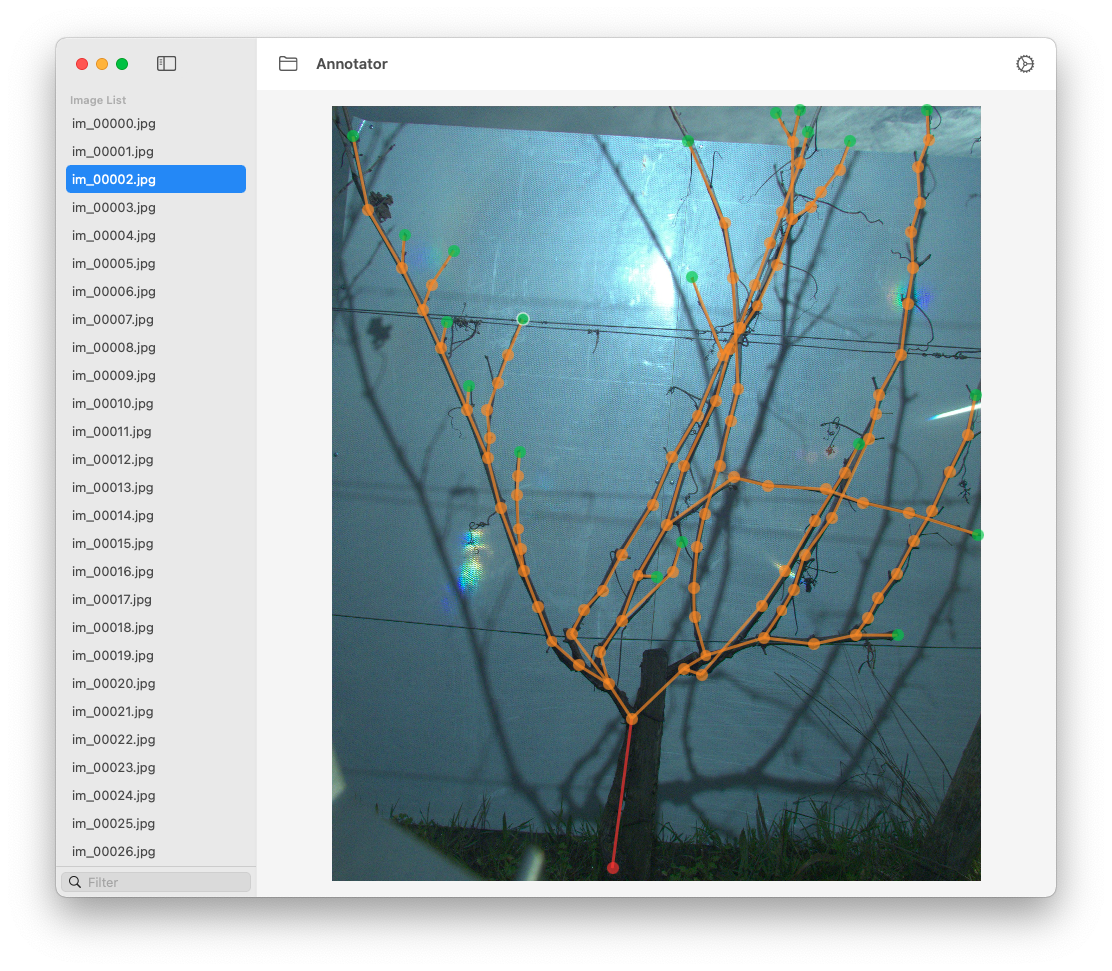
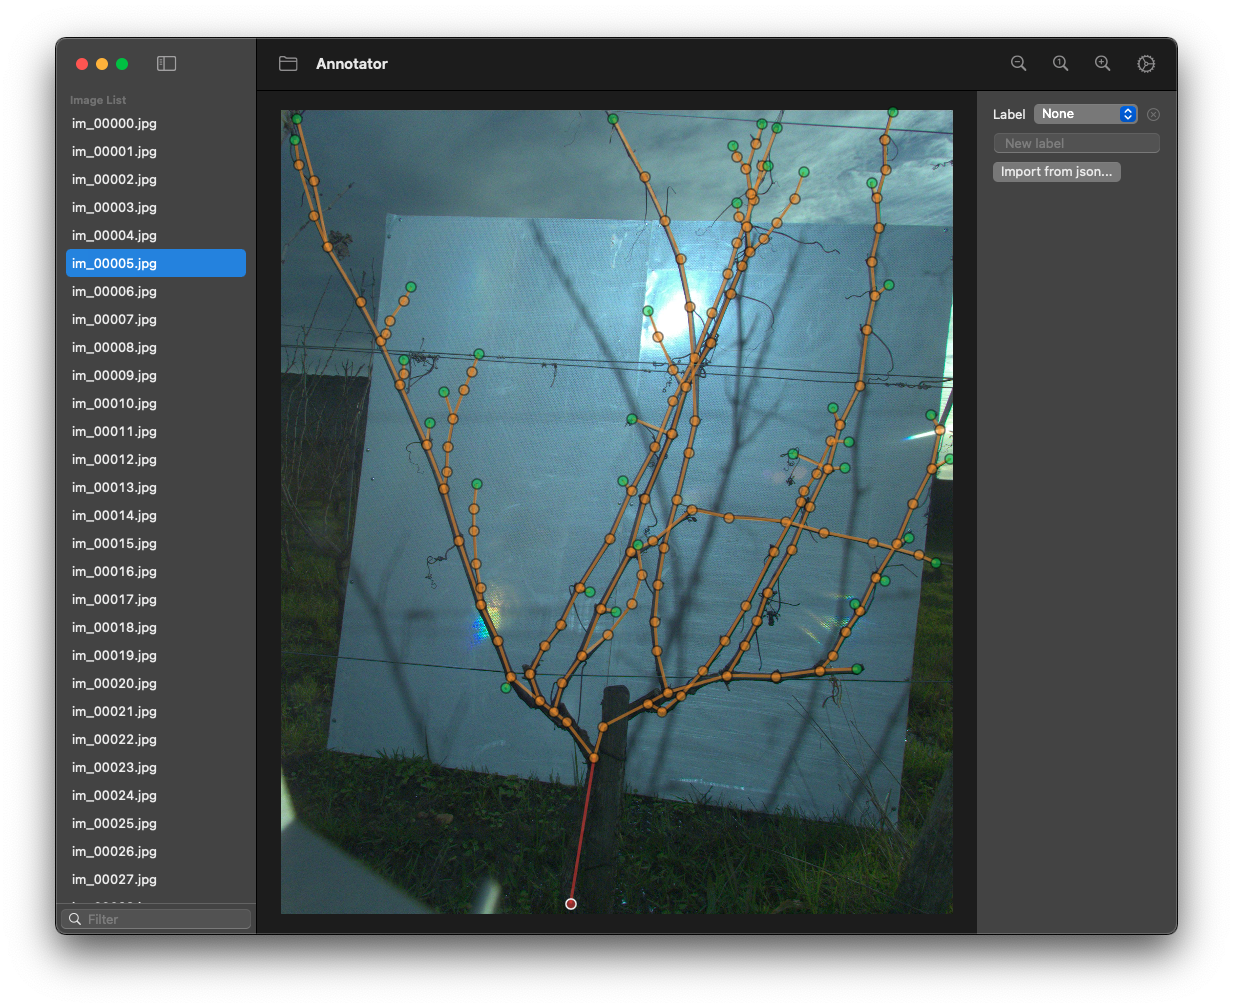
Added inspector view for adding a label

diff --git a/Annotator/AnnotationView/AnnotationTreeView.swift b/Annotator/AnnotationView/AnnotationTreeView.swift
@@ -9,7 +9,7 @@ import SwiftUI
 
 struct AnnotationTreeView: View {
     @EnvironmentObject private var annotationController: AnnotationController
-    
+    @EnvironmentObject private var labelsController: LabelsController
     @AppStorage("keypointRadius") private var radius: Double = 5
     @AppStorage("keypointOpacity") private var opacity: Double = 1/2
     
@@ -34,12 +34,14 @@ struct AnnotationTreeView: View {
     func keypointView(node: KeypointNode) -> some View {
         ZStack {
             Circle()
-                .fill(colorFor(node: node).opacity(opacity))
+                .fill(colorForNode(node).opacity(opacity))
+            
+            Circle()
+                .stroke(Color.black.opacity(opacity), lineWidth: 1.5)
             
             if annotationController.selection === node {
                 Circle()
-                    .stroke(lineWidth: 1.5)
-                    .fill(Color.white.opacity(opacity))
+                    .stroke(Color.white, lineWidth: 1.5)
             }
         }
         .frame(width: CGFloat(radius) * 2, height: CGFloat(radius) * 2)
@@ -47,12 +49,7 @@ struct AnnotationTreeView: View {
             x: CGFloat(node.value.x) / imageSize.width * imageViewSize.width - CGFloat(radius),
             y: CGFloat(node.value.y) / imageSize.height * imageViewSize.height - CGFloat(radius))
         .gesture(tapOrDragGesture(node: node))
-        .contextMenu {
-            Button("Remove") {
-                annotationController.remove(node: node)
-                annotationController.save(imageUrl, imageSize: imageSize)
-            }
-        }
+        .contextMenu { menuItems(node: node) }
     }
     
     func connectionView(start: KeypointNode, stop: KeypointNode) -> some View {
@@ -75,8 +72,10 @@ struct AnnotationTreeView: View {
         }
     }
     
-    func colorFor(node: KeypointNode) -> Color {
-        if node.isRoot {
+    func colorForNode(_ node: KeypointNode) -> Color {
+        if node.value.name != nil {
+            return .blue
+        } else if node.isRoot {
             return .red
         } else if node.isLeaf {
             return .green
@@ -86,7 +85,35 @@ struct AnnotationTreeView: View {
     }
     
     func colorForConnection(from start: KeypointNode, to stop: KeypointNode) -> Color {
-        colorFor(node: start)
+        colorForNode(start)
+    }
+    
+    func nameBinding(for node: KeypointNode) -> Binding<String?> {
+        Binding {
+            node.value.name
+        } set: {
+            annotationController.objectWillChange.send()
+            node.value.name = $0
+            annotationController.save(imageUrl, imageSize: imageSize)
+        }
+    }
+    
+    @ViewBuilder
+    func menuItems(node: KeypointNode) -> some View {
+        Button(action: {
+            annotationController.remove(node: node)
+            annotationController.save(imageUrl, imageSize: imageSize)
+        }) {
+            Label("Remove", systemSymbol: .trash)
+        }
+        
+        Picker(selection: nameBinding(for: node), label: Label("Label", systemSymbol: .pencil)) {
+            Text("None").tag(String?.none)
+
+            ForEach(labelsController.labels, id: \.self) { label in
+                Text(label).tag(String?.some(label))
+            }
+        }
     }
     
     func tapOrDragGesture(node: KeypointNode) -> some Gesture {

diff --git a/Annotator/AnnotationView/AnnotationView.swift b/Annotator/AnnotationView/AnnotationView.swift
@@ -10,6 +10,7 @@ import RealModule
 
 struct AnnotationView: View {
     @EnvironmentObject private var imageStoreController: ImageStoreController
+    @EnvironmentObject private var labelsController: LabelsController
     @EnvironmentObject private var imagePreference: ImageScalePreference
     @StateObject private var annotationController = AnnotationController()
     @State private var imageViewSize: CGSize?
@@ -24,8 +25,9 @@ struct AnnotationView: View {
                             .overlay(annotationView)
                             .readSize(onChange: { imageViewSize = $0 })
                             .onClickGesture(count: 2, perform: addNewNode)
-                            .frame(width: geo.size.width * imagePreference.imageScale, height: geo.size.height * imagePreference.imageScale)
-            
+                            .frame(
+                                width: geo.size.width * imagePreference.imageScale,
+                                height: geo.size.height * imagePreference.imageScale)
                     }
                 }
             } else {
@@ -34,13 +36,7 @@ struct AnnotationView: View {
         }
         .padding()
         .disabled(imageSize == nil || imageViewSize == nil)
-        .onReceive(imageStoreController.$selection) { selection in
-            if let selection = selection {
-                annotationController.loadAnnotation(forImageUrl: selection)
-            } else {
-                annotationController.reset()
-            }
-        }
+        .onReceive(imageStoreController.$selection, perform: loadAnnotation(url:))
         .environmentObject(annotationController)
     }
     
@@ -61,13 +57,21 @@ struct AnnotationView: View {
         }
         
         let keypoint = Keypoint(
-            name: "",
+            name: labelsController.selection,
             x: Double(location.x / imageViewSize.width * imageSize.width),
             y: Double(location.y / imageViewSize.height * imageSize.height)
         )
          
         annotationController.add(keypoint: keypoint, imageUrl: imageUrl, imageSize: imageSize)
         annotationController.save(imageUrl, imageSize: imageSize)
+    }
+    
+    func loadAnnotation(url: URL?) {
+        if let url = url {
+            annotationController.loadAnnotation(forImageUrl: url)
+        } else {
+            annotationController.reset()
+        }
     }
 }
 

diff --git a/Annotator/AnnotationView/InspectorView.swift b/Annotator/AnnotationView/InspectorView.swift
@@ -1,0 +1,55 @@
+//
+//  InspectorView.swift
+//  Annotator
+//
+//  Created by Louis Lac on 12/03/2021.
+//
+
+import SwiftUI
+
+struct InspectorView: View {
+    @EnvironmentObject private var labelsController: LabelsController
+    @State private var newLabel: String = ""
+    
+    var body: some View {
+        List {
+            HStack {
+                Picker("Label", selection: $labelsController.selection) {
+                    Text("None").tag(String?.none)
+
+                    ForEach(labelsController.labels, id: \.self) { label in
+                        Text(label).tag(String?.some(label))
+                    }
+                }
+                
+                Button(action: labelsController.removeSelectedLabel) {
+                    Image(systemSymbol: .xmarkCircle)
+                }
+                .disabled(labelsController.isDisabled)
+                .buttonStyle(BorderlessButtonStyle())
+            }
+            
+            TextField("New label", text: $newLabel, onCommit: appendLabel)
+                .disableAutocorrection(true)
+                .textFieldStyle(RoundedBorderTextFieldStyle())
+            
+            Button(action: labelsController.importLabelsFromJson) {
+                Text("Import from json...")
+            }
+        }
+        .frame(width: 200)
+        .listStyle(SidebarListStyle())
+        
+    }
+    
+    func appendLabel() {
+        labelsController.addLabel(newLabel)
+        newLabel = ""
+    }
+}
+
+struct InspectorView_Previews: PreviewProvider {
+    static var previews: some View {
+        InspectorView()
+    }
+}

diff --git a/Annotator/Controllers/LabelsController.swift b/Annotator/Controllers/LabelsController.swift
@@ -1,0 +1,52 @@
+//
+//  LabelsController.swift
+//  Annotator
+//
+//  Created by Louis Lac on 14/03/2021.
+//
+
+import Foundation
+import SwiftUI
+
+final class LabelsController: ObservableObject {
+    @Published private(set) var labels: [String] = []
+    @Published var selection: String?
+    
+    func removeSelectedLabel() {
+        guard let label = selection, let index = labels.firstIndex(of: label) else { return }
+        labels.remove(at: index)
+        let indexBefore = labels.index(before: index)
+        if indexBefore < 0 {
+            self.selection = nil
+        } else {
+            self.selection = labels[indexBefore]
+        }
+    }
+    
+    func addLabel(_ label: String) {
+        guard !label.isEmpty else { return }
+        labels.append(label)
+        selection = label
+    }
+    
+    func importLabelsFromJson() {
+        let panel = NSOpenPanel()
+        panel.canChooseFiles = true
+        panel.canChooseDirectories = false
+        panel.allowsMultipleSelection = false
+        panel.canHide = true
+        panel.allowedContentTypes = [.json]
+        
+        guard panel.runModal() == .OK else { return }
+        guard let fileURL = panel.url else { return }
+        guard let data = try? Data(contentsOf: fileURL) else { return }
+        guard let labels = try? JSONDecoder().decode([String].self, from: data) else { return }
+        
+        self.labels = labels
+        self.selection = self.labels.first
+    }
+    
+    var isDisabled: Bool {
+        selection == nil || labels.isEmpty
+    }
+}

diff --git a/Annotator/MainView.swift b/Annotator/MainView.swift
@@ -11,18 +11,25 @@ import SFSafeSymbols
 struct MainView: View {
     @StateObject private var imageStore = ImageStoreController()
     @StateObject private var imagePreference = ImageScalePreference()
+    @StateObject private var labelsController = LabelsController()
     @State private var isPresented: Bool = false
     
     var body: some View {
         NavigationView {
             SidebarView()
-            AnnotationView()
-                .toolbar(content: toolbarItems)
+            HStack(spacing: 0) {
+                Spacer()
+                AnnotationView()
+                    .toolbar(content: toolbarItems)
+                Spacer()
+                InspectorView()
+            }
         }
         .frame(minWidth: 1000, minHeight: 600)
         .sheet(isPresented: $isPresented, content: SettingsView.init)
         .environmentObject(imageStore)
         .environmentObject(imagePreference)
+        .environmentObject(labelsController)
     }
     
     func toolbarItems() -> some ToolbarContent {

diff --git a/Annotator/Models/Tree Annotation/AnnotationTree.swift b/Annotator/Models/Tree Annotation/AnnotationTree.swift
@@ -16,19 +16,19 @@ struct AnnotationTree {
     var imageSize: Size<Double>?
 }
 
-extension AnnotationTree {
-    mutating func resolveNodeNames() {
-        tree.traverse { node in
-            if node === tree.root {
-                node.value.name = "root"
-            } else if node.children.isEmpty {
-                node.value.name = "leaf"
-            } else {
-                node.value.name = "part"
-            }
-        }
-    }
-}
+//extension AnnotationTree {
+//    mutating func resolveNodeNames() {
+//        tree.traverse { node in
+//            if node === tree.root {
+//                node.value.name = "root"
+//            } else if node.children.isEmpty {
+//                node.value.name = "leaf"
+//            } else {
+//                node.value.name = "part"
+//            }
+//        }
+//    }
+//}
 
 //extension AnnotationTree: Equatable, Hashable { }
 

diff --git a/Annotator/Extensions/Array+RawRepresentable.swift b/Annotator/Extensions/Array+RawRepresentable.swift
@@ -1,0 +1,28 @@
+//
+//  Array+RawRepresentable.swift
+//  Annotator
+//
+//  Created by Louis Lac on 14/03/2021.
+//
+
+import Foundation
+
+extension Array: RawRepresentable where Element: Codable {
+    public init?(rawValue: String) {
+        guard let data = rawValue.data(using: .utf8),
+              let result = try? JSONDecoder().decode([Element].self, from: data)
+        else {
+            return nil
+        }
+        self = result
+    }
+
+    public var rawValue: String {
+        guard let data = try? JSONEncoder().encode(self),
+              let result = String(data: data, encoding: .utf8)
+        else {
+            return "[]"
+        }
+        return result
+    }
+}

diff --git a/Annotator/Controllers/AnnotationController.swift b/Annotator/Controllers/AnnotationController.swift
@@ -122,8 +122,7 @@ final class AnnotationController: ObservableObject {
     func save(_ imageUrl: URL, imageSize: CGSize) {
         do {
             let size = Size(cgSize: imageSize)
-            var annotation = AnnotationTree(imageUrl: imageUrl, tree: tree, imageSize: size)
-            annotation.resolveNodeNames()
+            let annotation = AnnotationTree(imageUrl: imageUrl, tree: tree, imageSize: size)
             let data = try encoder.encode(annotation)
             let saveUrl = imageUrl.deletingPathExtension().appendingPathExtension("json")
             try data.write(to: saveUrl)

diff --git a/Annotator/SidebarView.swift b/Annotator/SidebarView.swift
@@ -16,6 +16,7 @@ struct SidebarView: View {
                 Section(header: Text("Image List")) {
                     ForEach(store.images, id: \.self) { image in
                         Text(image.lastPathComponent)
+                            .font(Font.body.monospacedDigit())
                     }
                 }
             }

diff --git a/Annotator/Models/Annotation.swift b/Annotator/Models/Annotation.swift
@@ -79,7 +79,7 @@ struct Box<C: Real> {
 }
 
 struct Keypoint<C: Real> {
-    var name: String
+    var name: String?
     var x, y: C
 }
 
